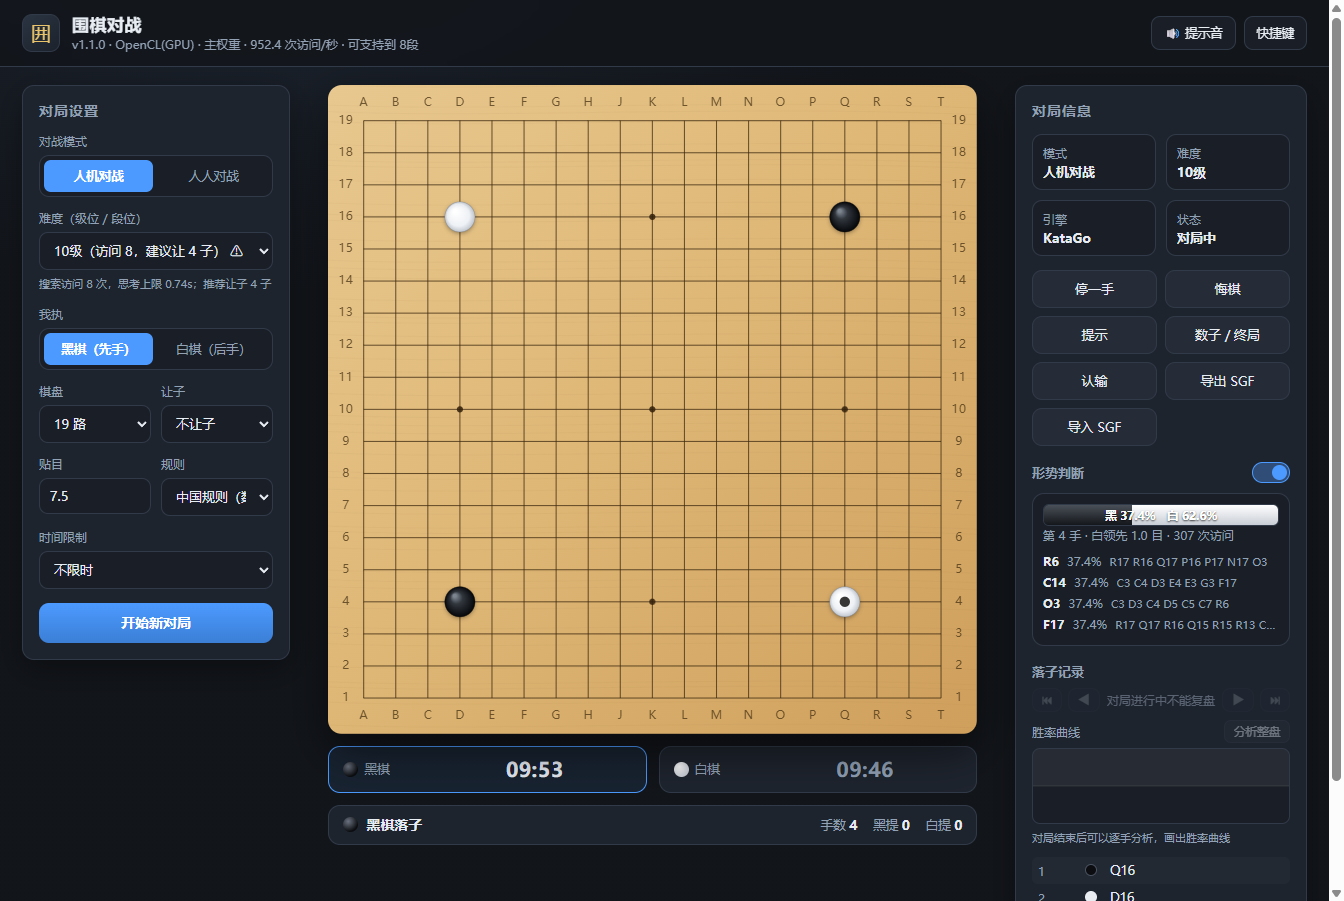
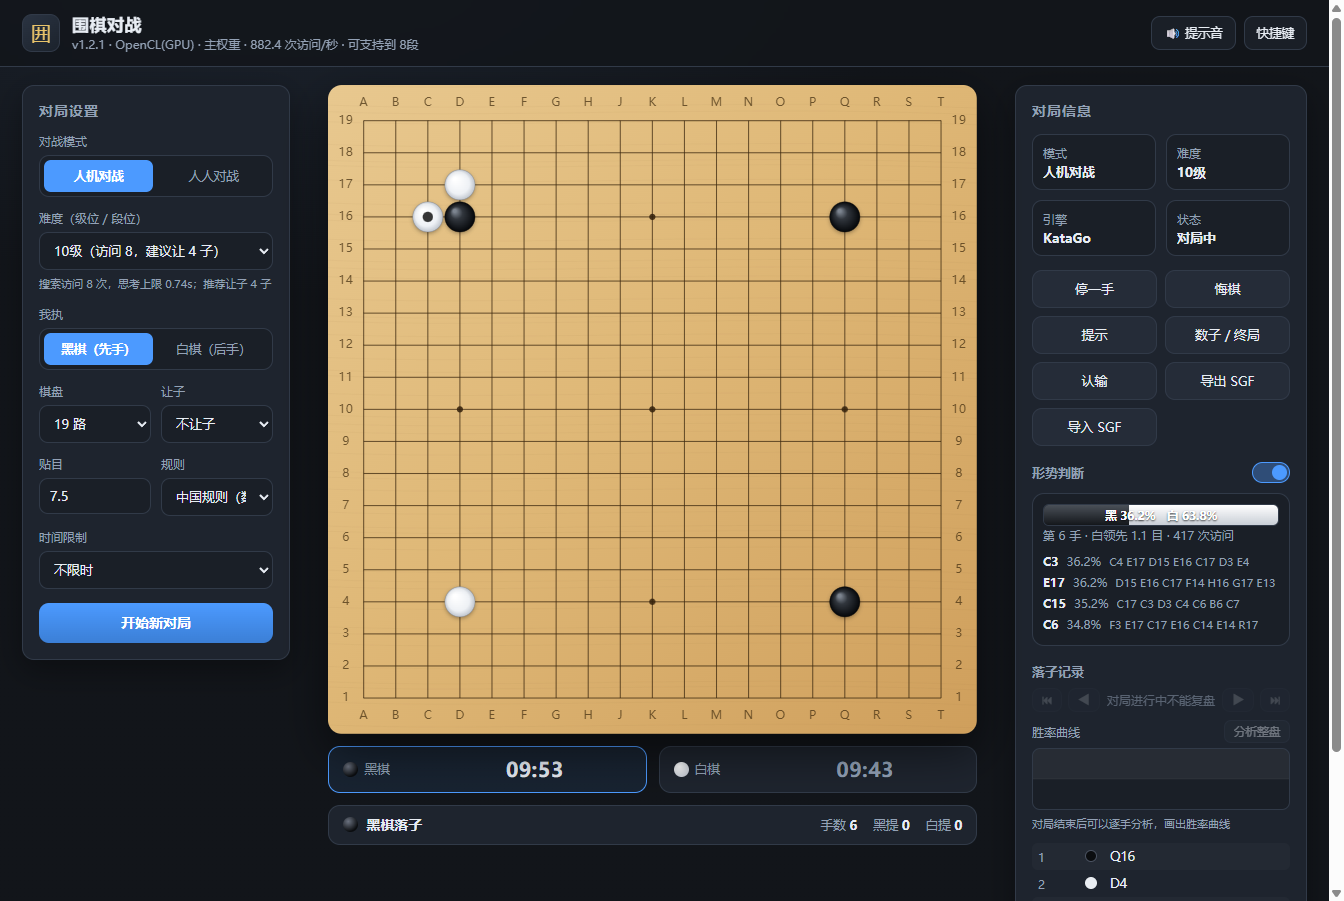
fix: 难度下拉框误标『本机性能受限』，GPU 调优挪到安装阶段（v1.2.1） (#13)
下拉框原来只在第一次渲染时写文案，那一刻引擎还在初始化（能力值还是初始的 0），于是除最低档外全被标成受限；顶栏那句『可支持到 8段』是引擎就绪后算的，两边对不上。现在能力值一变就重新刷新文案。

另外把首次运行的 GPU 内核调优挪到 tools/fetch-engine.ps1 里做：下载完引擎顺手预热一次并写入缓存，之后启动只要几秒，不用在第一次下棋时干等。界面也会明确显示『正在对显卡做一次性内核调优』并给出已等待秒数。

截图工具顺带加了界面自检，会打印难度档位总数与被标受限的数量。

diff --git a/public/app.js b/public/app.js
@@ -82,6 +82,8 @@ const ui = {
   evalOn: false,
   evalPly: -1,
   evalAt: 0,
+  /** 上次用来刷新难度文案的引擎能力值，变了才重刷 */
+  levelCap: undefined,
 };
 
 let state = { game: null, engine: null, hardware: null, levels: [], aiThinking: false };
@@ -554,7 +556,10 @@ function render() {
   if (e.status === 'ready') {
     els.engineLine.textContent = `${e.backend ? e.backend.label : ''} · ${e.modelKind === 'fast' ? '轻量权重' : '主权重'} · ${e.visitsPerSec} 次访问/秒 · 可支持到 ${e.recommendedMaxLevel}`;
   } else if (e.status === 'loading' || e.status === 'probing') {
-    els.engineLine.textContent = '引擎初始化中（首次运行需要做一次 GPU 内核调优，可能要几分钟）…';
+    const secs = e.loadingSeconds ? `，已等待 ${e.loadingSeconds} 秒` : '';
+    els.engineLine.textContent = e.tuning
+      ? `正在对显卡做一次性内核调优（只需一次，可能几分钟${secs}）…`
+      : `引擎加载中${secs}…`;
   } else if (e.status === 'builtin') {
     els.engineLine.textContent = `内置引擎（${e.note || '未检测到 KataGo'}）`;
   } else {
@@ -562,7 +567,15 @@ function render() {
   }
 
   // 难度下拉
-  if (state.levels && state.levels.length && els.levelSelect.options.length !== state.levels.length) {
+  // 引擎能力是异步测出来的，要等它出来之后再刷一次下拉框文案，
+  // 否则会拿初始值（0）去判断，把几乎所有难度都标成"性能受限"
+  const levelCap = state.engine ? state.engine.maxLevelIndex : null;
+  if (
+    state.levels &&
+    state.levels.length &&
+    (els.levelSelect.options.length !== state.levels.length || ui.levelCap !== levelCap)
+  ) {
+    ui.levelCap = levelCap;
     buildLevelSelect();
   }
   updateLevelHint();

diff --git a/server/engine/manager.js b/server/engine/manager.js
@@ -51,6 +51,8 @@ class EngineManager {
     this.status = 'idle'; // idle | probing | loading | ready | builtin | error
     this.error = null;
     this.warnings = [];
+    /** 状态变成 loading 的时刻，用来在界面上显示已经等了多久 */
+    this.loadingSince = null;
 
     this.queue = Promise.resolve();
   }
@@ -110,6 +112,7 @@ class EngineManager {
     }
 
     this.status = 'loading';
+      this.loadingSince = Date.now();
     const boardSize = this.cfg.defaults.boardSize || 19;
     const t0 = Date.now();
     try {
@@ -307,6 +310,9 @@ class EngineManager {
     const usableLevels = LEVELS.filter((l) => l.index <= this.maxLevelIndex).map((l) => l.id);
     return {
       status: this.status,
+      // 首次 OpenCL 要做 GPU 内核调优，界面据此显示更具体的原因
+      tuning: Boolean(this.main && this.main.info && this.main.info.tuning),
+      loadingSeconds: this.loadingSince ? Math.round((Date.now() - this.loadingSince) / 1000) : 0,
       engine: this.main && this.main.running ? 'katago' : 'builtin',
       backend: this.backend ? { kind: this.backend.kind, label: this.backend.label } : null,
       backendVersion: this.main ? this.main.info.version : '',

diff --git a/server/engine/katago.js b/server/engine/katago.js
@@ -127,6 +127,12 @@ class KataGoEngine {
 
     this.client = new GtpClient({ command: this.exe, args, cwd: cfgDir });
     this.client.on('log', (line) => {
+      // 首次跑 OpenCL 会做一次 GPU 内核调优，这段时间特别长，
+      // 记下来好让界面能说得具体一点，而不是笼统的"初始化中"
+      if (/autotuning|GPU tuning|Tuning \d+\//i.test(line)) {
+        this.info.tuning = true;
+        this.info.tuningNote = line.trim().slice(0, 120);
+      }
       if (process.env.KATAGO_VERBOSE) console.log(`[katago:${this.label}] ${line}`);
     });
     this.client.start();
@@ -135,6 +141,8 @@ class KataGoEngine {
     this.info.name = await this.client.send('name', 600000);
     this.info.version = await this.client.send('version', 600000);
     this.info.humanSL = Boolean(this.humanModel);
+    // 能应答 name 就说明模型加载与调优都结束了
+    this.info.tuning = false;
     try {
       await this.client.send('kata-set-param logSearchInfo false', 10000);
     } catch {

diff --git a/desktop/main.js b/desktop/main.js
@@ -99,6 +99,23 @@ async function captureAndExit(url) {
   } catch {
     /* 界面还没准备好就跳过 */
   }
+
+  // 顺手做一个界面自检：难度下拉里的"性能受限"标记应该和顶栏说的一致
+  try {
+    const info = await mainWindow.webContents.executeJavaScript(`(() => {
+      const opts = [...document.querySelectorAll('#level-select option')];
+      return {
+        levels: opts.length,
+        limited: opts.filter((o) => o.textContent.includes('⚠')).length,
+        engineLine: document.getElementById('engine-line').textContent.trim(),
+      };
+    })()`);
+    console.log(`[截图] 难度档位 ${info.levels} 个，标注"性能受限"的 ${info.limited} 个`);
+    console.log(`[截图] 顶栏：${info.engineLine}`);
+  } catch (err) {
+    console.warn('[截图] 界面自检失败:', err.message);
+  }
+
   const image = await mainWindow.webContents.capturePage();
   fs.mkdirSync(path.dirname(shotPath), { recursive: true });
   fs.writeFileSync(shotPath, image.toPNG());

diff --git a/server/index.js b/server/index.js
@@ -600,8 +600,15 @@ async function startServer(options = {}) {
 
   hardware.start();
 
+  let loadingTick = 0;
   // 棋钟：每 0.5 秒推进一次。只有开了时间限制的对局才需要推送。
   const clockTimer = setInterval(() => {
+    // 引擎还没就绪时定期推一次状态，好让界面显示"已经等了多久"
+    if (engine.status === 'loading' || engine.status === 'probing') {
+      loadingTick += 1;
+      if (loadingTick % 4 === 0) broadcast();
+      return;
+    }
     if (!game || game.status !== 'playing' || !game.clock.enabled) return;
     const t = game.tickClock();
     if (t && t.timeout != null) {

diff --git a/README.md b/README.md
@@ -9,7 +9,7 @@
 
 它是独立的窗口程序，不需要开浏览器，也不需要另外启动服务端。打包之后就是一个 exe。
 
-当前版本 1.2.0。
+当前版本 1.2.1。
 
 ![界面](docs/screenshot.png)
 
@@ -58,6 +58,11 @@ pwsh -File tools/fetch-engine.ps1
 
 下完会顺便生成 `config.json`。这些文件都比较大，所以没有放进版本库。
 
+脚本下载完还会**预热一次**：OpenCL 版第一次加载权重时会对你的显卡做一次内核调优，
+在 4070 笔记本上要六七分钟（不同显卡不一样），调完结果会缓存到用户目录，
+之后启动只要几秒。放在安装阶段做掉，免得第一次下棋时干等。
+不想等可以加 `-SkipWarmup`，那样就推迟到第一次启动时做。
+
 ### 2. 装依赖并启动
 
 ```bash
@@ -68,7 +73,8 @@ npm start
 会直接弹出程序窗口。`npm install` 那一步只在第一次需要，之后 `npm start` 就行。
 
 如果用的是 OpenCL 版，第一次启动会花几分钟做 GPU 内核调优——这是 KataGo 自己的
-行为，跟本项目无关。调完会缓存下来，之后启动只要几秒。
+行为，跟本项目无关。按上面的流程走过一遍预热的话，这一步已经提前做完了；
+界面会明确显示"正在对显卡做一次性内核调优"以及已经等了多久。
 
 如果你想用浏览器访问（比如手机上对着同一台电脑看），可以跑 `npm run server`，
 然后打开 <http://127.0.0.1:8080>。两种方式跑的是同一套逻辑。

diff --git a/CHANGELOG.md b/CHANGELOG.md
@@ -2,6 +2,24 @@
 
 本项目遵循 [语义化版本](https://semver.org/lang/zh-CN/)。
 
+## [1.2.1] - 2026-10-09
+
+### 修复
+
+- **难度下拉框把几乎所有档位都标成"本机性能受限"**：下拉框只在第一次渲染时写文案，
+  而那一刻引擎还在初始化（能力值还是初始的 0），于是除最低档外全被标成受限；
+  顶栏那句"可支持到 8段"是引擎就绪后才算出来的，两边对不上。
+  现在引擎能力值一变就重新刷新文案
+- **首次运行的 GPU 内核调优体验**：调优原本发生在第一次下棋时，界面只笼统地说"初始化中"，
+  看起来像卡住了。现在会明确显示"正在对显卡做一次性内核调优"并给出已等待秒数
+
+### 改进
+
+- `tools/fetch-engine.ps1` 增加预热步骤：下载完引擎顺手把 GPU 内核调优做掉并写入缓存，
+  之后启动只要几秒。不想等可以加 `-SkipWarmup`
+- 桌面版的截图工具顺带做一次界面自检（打印难度档位总数与被标受限的数量），
+  这类"显示与实际对不上"的问题一眼能看出来
+
 ## [1.2.0] - 2026-10-09
 
 ### 新增
